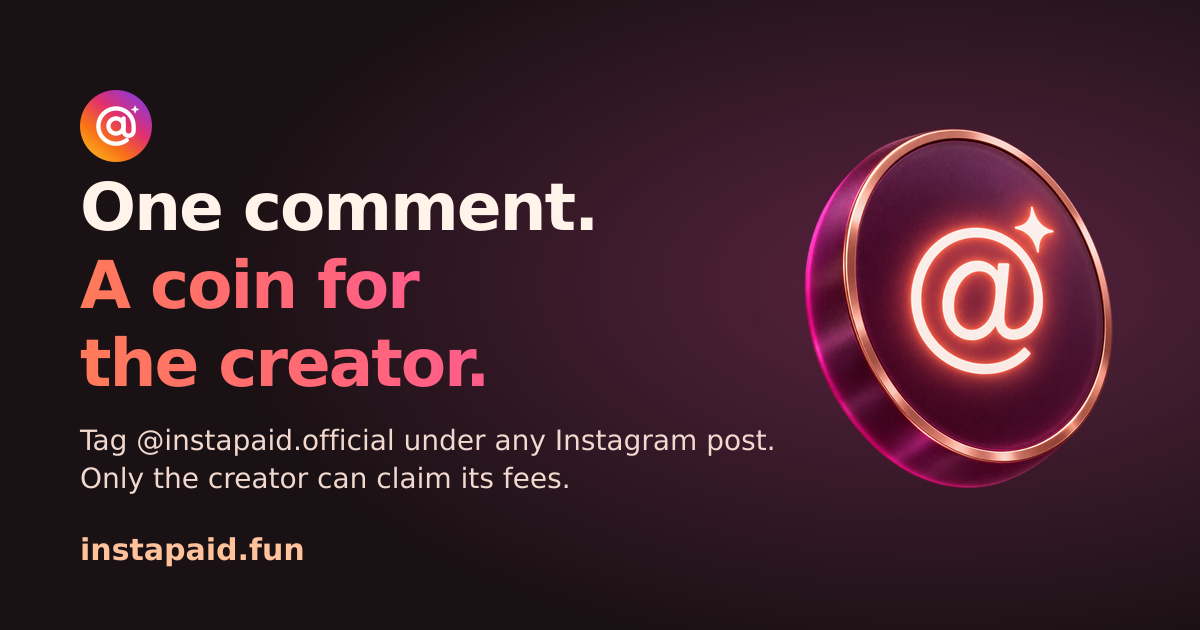
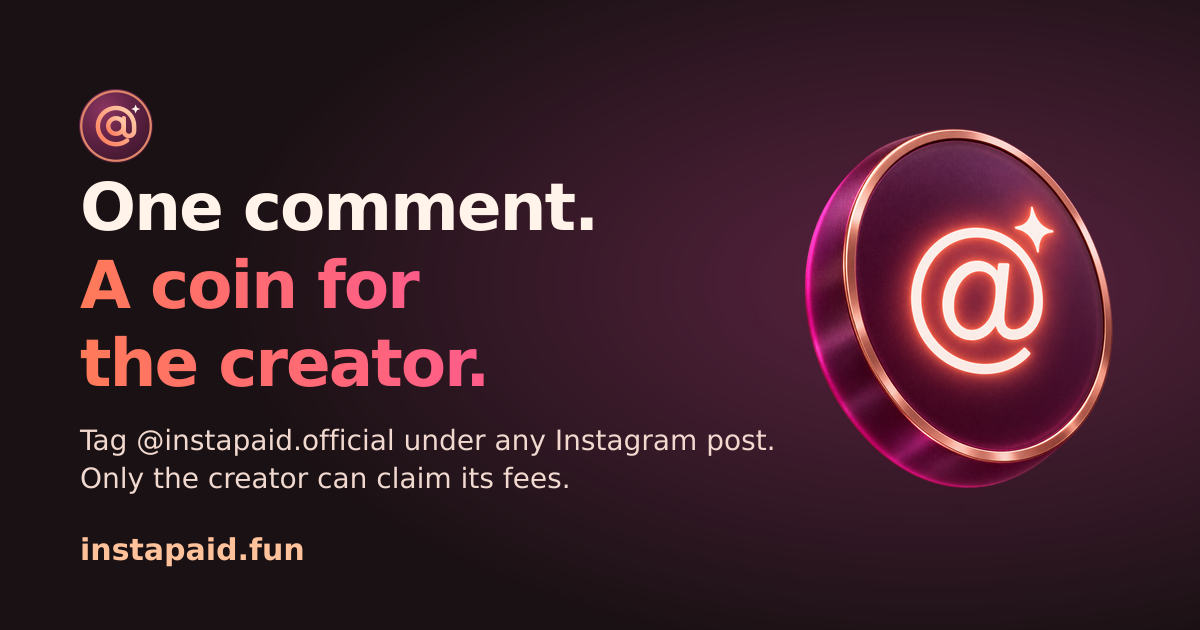
New mark in InstaPaid's own colours, not Instagram's gradient
The mark was Instagram's gradient (yellow, orange, #e1306c, purple). It is now
the site's coin: deep plum with a copper rim, the @ in coral to peach, a cream
sparkle. Updated the favicon (SVG and ICO), the Apple touch icon, the share
image's small mark, the brand mark, the 1024 px app icon, the 1080 px profile
picture and the 1500x500 banner.

Claude-Session: https://claude.ai/code/session_01Wo8pghmpSEWr64qpBqpGrG

Changed region(s): [[0.0617, 0.1206, 0.1542, 0.2714]]

diff --git a/brand/banner.html b/brand/banner.html
@@ -1,11 +1,11 @@
 <!doctype html><html><body style="margin:0">
-<div style="width:1500px;height:500px;box-sizing:border-box;padding:0 110px;display:flex;align-items:center;gap:64px;background:linear-gradient(110deg,#7c3aed 0%,#e1306c 50%,#f97316 80%,#fbbf24 100%);font-family:'Liberation Sans','DejaVu Sans',sans-serif;color:#fff;position:relative;overflow:hidden">
-  <div style="position:absolute;right:-120px;top:-160px;width:560px;height:560px;border-radius:50%;border:60px solid rgba(255,255,255,.08)"></div>
-  <div style="position:absolute;right:220px;bottom:-220px;width:420px;height:420px;border-radius:50%;border:44px solid rgba(255,255,255,.07)"></div>
-  <img src="at/v1.svg" width="260" height="260" style="flex:none;border-radius:50%;box-shadow:0 0 0 10px rgba(255,255,255,.9),0 18px 40px rgba(40,0,60,.35)">
+<div style="width:1500px;height:500px;box-sizing:border-box;padding:0 110px;display:flex;align-items:center;gap:64px;background:radial-gradient(ellipse at 22% 30%,#6a2749 0%,#45182f 48%,#1f0d17 100%);font-family:'Liberation Sans','DejaVu Sans',sans-serif;color:#fff;position:relative;overflow:hidden">
+  <div style="position:absolute;right:-120px;top:-160px;width:560px;height:560px;border-radius:50%;border:60px solid rgba(224,135,106,.10)"></div>
+  <div style="position:absolute;right:220px;bottom:-220px;width:420px;height:420px;border-radius:50%;border:44px solid rgba(224,135,106,.08)"></div>
+  <img src="mark.svg" width="260" height="260" style="flex:none;border-radius:50%;box-shadow:0 18px 40px rgba(0,0,0,.45)">
   <div style="position:relative">
     <div style="font-size:112px;font-weight:700;letter-spacing:-3px;line-height:1">instapaid</div>
-    <div style="font-size:38px;font-weight:700;margin-top:26px;line-height:1.25">Comment <span style="background:rgba(255,255,255,.18);padding:2px 14px;border-radius:12px">@instapaid.official make a token</span><br>under any post. We launch the coin.</div>
+    <div style="font-size:38px;font-weight:700;margin-top:26px;line-height:1.25">Comment <span style="background:rgba(255,122,89,.22);color:#ffd2b0;padding:2px 14px;border-radius:12px">@instapaid.official make a token</span><br>under any post. We launch the coin.</div>
     <div style="font-size:28px;margin-top:22px;opacity:.95">Creator fees go to the creator. Only they can claim. <b style="opacity:1">instapaid.fun</b></div>
   </div>
 </div></body></html>

diff --git a/brand/avatar.html b/brand/avatar.html
@@ -1,9 +1,4 @@
 <!doctype html><html><body style="margin:0">
-<svg xmlns="http://www.w3.org/2000/svg" viewBox="0 0 400 400" width="1080" height="1080" style="display:block">
-<defs><linearGradient id="g" x1="0.1" y1="1" x2="0.9" y2="0"><stop offset="0" stop-color="#fbbf24"/><stop offset=".3" stop-color="#f97316"/><stop offset=".6" stop-color="#e1306c"/><stop offset="1" stop-color="#7c3aed"/></linearGradient></defs>
-<rect width="400" height="400" fill="url(#g)"/>
-<g transform="translate(200 200) scale(1.12) translate(-200 -200)">
-<path d="M242 158V226a28 28 0 0 0 56 0V200a98 98 0 1 0-38 78" fill="none" stroke="#fff" stroke-width="24" stroke-linecap="round" stroke-linejoin="round"/>
-<circle cx="200" cy="200" r="42" fill="none" stroke="#fff" stroke-width="24"/>
-<path d="M306 84l7 17 17 7-17 7-7 17-7-17-17-7 17-7z" fill="#fff"/>
-</g></svg></body></html>
+<!-- The Instagram profile picture: brand/app-icon.svg at 1080 px (brand/profile-picture-1080.png). -->
+<img src="app-icon.svg" width="1080" height="1080" style="display:block">
+</body></html>
